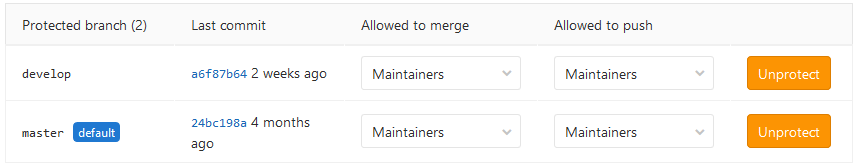
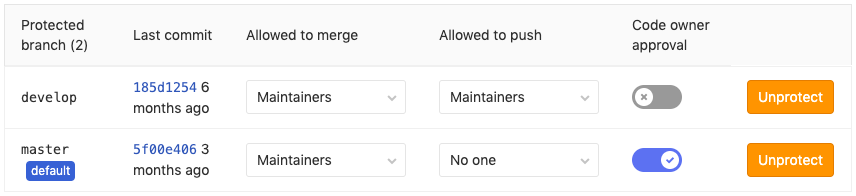
Update docs to reflect changes to API and UI
Add "code_owner_approval_required" field to API response documentation.

diff --git a/doc/api/protected_branches.md b/doc/api/protected_branches.md
@@ -46,7 +46,8 @@ Example response:
         "access_level": 40,
         "access_level_description": "Maintainers"
       }
-    ]
+    ],
+    "code_owner_approval_required": "false"
   },
   ...
 ]
@@ -76,7 +77,8 @@ Example response:
         "group_id": 1234,
         "access_level_description": "Example Merge Group"
       }
-    ]
+    ],
+    "code_owner_approval_required": "false"
   },
   ...
 ]
@@ -115,7 +117,8 @@ Example response:
       "access_level": 40,
       "access_level_description": "Maintainers"
     }
-  ]
+  ],
+  "code_owner_approval_required": "false"
 }
 ```
 
@@ -142,7 +145,8 @@ Example response:
       "group_id": 1234,
       "access_level_description": "Example Merge Group"
     }
-  ]
+  ],
+  "code_owner_approval_required": "false"
 }
 ```
 
@@ -161,14 +165,15 @@ curl --request POST --header "PRIVATE-TOKEN: <your_access_token>" 'https://gitla
 
 | Attribute | Type | Required | Description |
 | --------- | ---- | -------- | ----------- |
-| `id`                     | integer/string | yes | The ID or [URL-encoded path of the project](README.md#namespaced-path-encoding) owned by the authenticated user |
-| `name`                   | string         | yes | The name of the branch or wildcard |
-| `push_access_level`      | string         | no  | Access levels allowed to push (defaults: `40`, maintainer access level) |
-| `merge_access_level`     | string         | no  | Access levels allowed to merge (defaults: `40`, maintainer access level) |
-| `unprotect_access_level` | string         | no  | Access levels allowed to unprotect (defaults: `40`, maintainer access level) |
-| `allowed_to_push`        | array          | no  | **(STARTER)** Array of access levels allowed to push, with each described by a hash |
-| `allowed_to_merge`       | array          | no  | **(STARTER)** Array of access levels allowed to merge, with each described by a hash |
-| `allowed_to_unprotect`   | array          | no  | **(STARTER)**Array of access levels allowed to unprotect, with each described by a hash |
+| `id`                            | integer/string | yes | The ID or [URL-encoded path of the project](README.md#namespaced-path-encoding) owned by the authenticated user |
+| `name`                          | string         | yes | The name of the branch or wildcard |
+| `push_access_level`             | string         | no  | Access levels allowed to push (defaults: `40`, maintainer access level) |
+| `merge_access_level`            | string         | no  | Access levels allowed to merge (defaults: `40`, maintainer access level) |
+| `unprotect_access_level`        | string         | no  | Access levels allowed to unprotect (defaults: `40`, maintainer access level) |
+| `allowed_to_push`               | array          | no  | **(STARTER)** Array of access levels allowed to push, with each described by a hash |
+| `allowed_to_merge`              | array          | no  | **(STARTER)** Array of access levels allowed to merge, with each described by a hash |
+| `allowed_to_unprotect`          | array          | no  | **(STARTER)**Array of access levels allowed to unprotect, with each described by a hash |
+| `code_owner_approval_required`  | boolean        | no  | **(PREMIUM)**Prevent pushes to this branch if it matches an item in CODEOWNERS |
 
 Example response:
 
@@ -192,7 +197,8 @@ Example response:
       "access_level": 40,
       "access_level_description": "Maintainers"
     }
-  ]
+  ],
+  "code_owner_approval_required": "false"
 }
 ```
 
@@ -227,7 +233,8 @@ Example response:
       "group_id": null,
       "access_level_description": "Maintainers"
     }
-  ]
+  ],
+  "code_owner_approval_required": "false"
 }
 ```
 
@@ -268,7 +275,8 @@ Example response:
       "group_id": null,
       "access_level_description": "Maintainers"
     }
-  ]
+  ],
+  "code_owner_approval_required": "false"
 }
 ```
 

diff --git a/doc/user/project/protected_branches.md b/doc/user/project/protected_branches.md
@@ -84,6 +84,20 @@ Click **Protect** and the branch will appear in the "Protected branch" list.
 
 ![Roles and users list](img/protected_branches_select_roles_and_users_list.png)
 
+## Code Owners approvals **(PREMIUM)**
+
+It is possible to require at least one approval for each entry in the
+[`CODEOWNERS` file](code_owners.md) that matches a file changed in
+the merge request. To enable this feature:
+
+1. Toggle the **Require approval from code owners** slider.
+
+1. Click **Protect**.
+
+When this feature is enabled, all merge requests will need approval
+from one code owner per matched rule before it can be merged. Additionally,
+pushes to the protected branch will be denied if a matched rule occurs.
+
 ## Wildcard protected branches
 
 > [Introduced][ce-4665] in GitLab 8.10.
